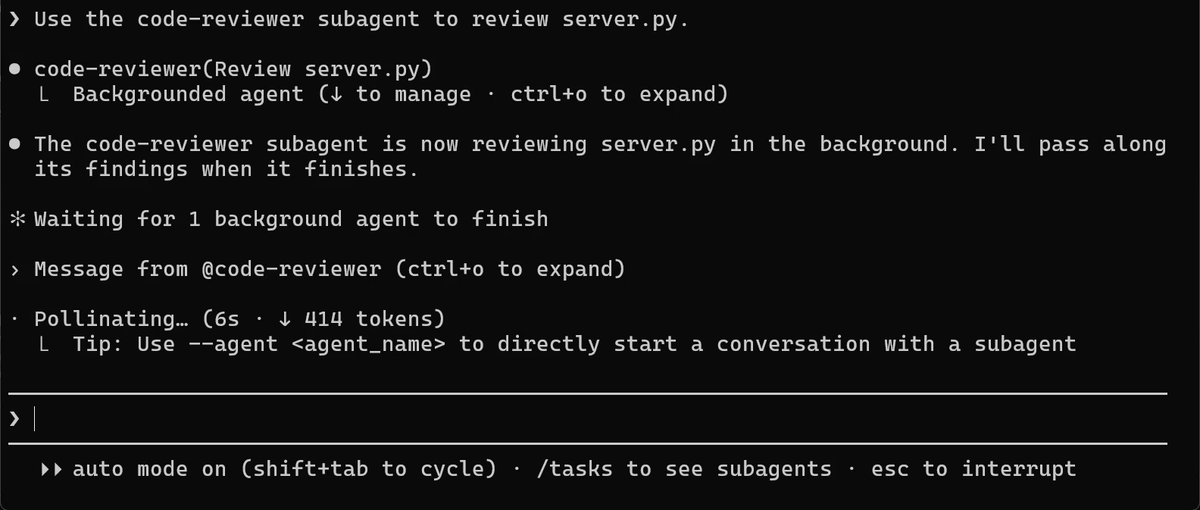
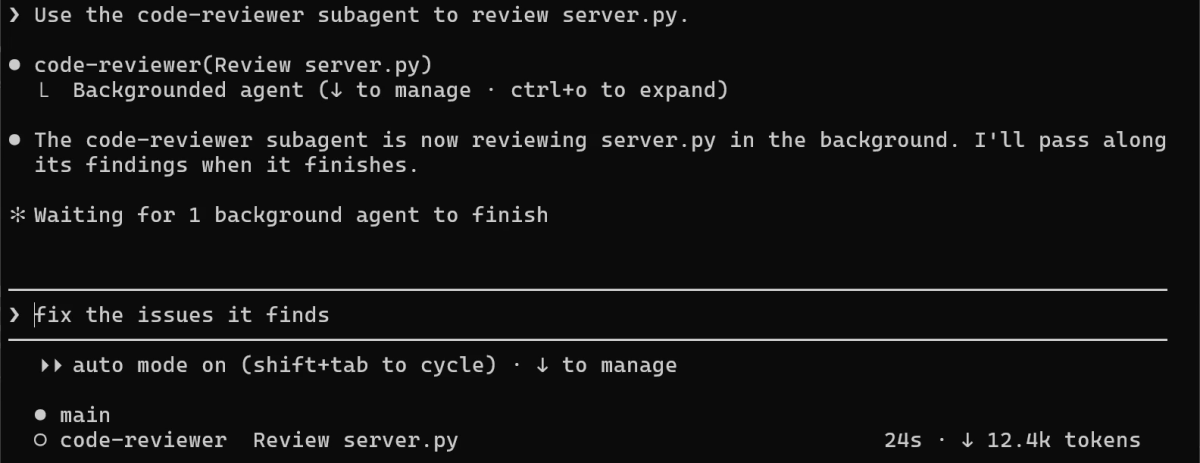
Claude Code chapter 9: episode 9 video, resume picture, review screenshot

diff --git a/series/claude-code/chapter9.html b/series/claude-code/chapter9.html
@@ -48,30 +48,39 @@
   </nav>
 
   <main>
+  <section id="video">
+    <div class="video"><iframe src="https://www.youtube-nocookie.com/embed/2tsK3JxVsaM?rel=0" title="Episode 9 · How do I get a second pair of eyes in Claude Code?"
+      allow="accelerometer; encrypted-media; gyroscope; picture-in-picture; web-share" allowfullscreen loading="lazy"></iframe></div>
+    <p class="video-cap">Prefer to watch? This chapter goes with Episode 9 (5:08). <a href="https://www.youtube.com/watch?v=2tsK3JxVsaM" rel="noopener">Open it on YouTube</a>.</p>
+  </section>
+
   <section id="wall" data-rail="The wall">
     <div class="prereq">
-      <div class="pq"><b>Goes with Episode 9</b>"How do I get a second pair of eyes?". The video is being made. This page teaches the same steps, at your own pace.</div><div class="pq"><b>In a hurry?</b><a href="#quickref">Jump to the quick reference</a>: every command and key in this chapter, what it does, and when to use it.</div><div class="pq"><b>Every prompt, ready to copy</b><a href="prompts.html#ch9">This chapter's prompts and commands</a>, each with a Copy button. Type them yourself first; copy if you are stuck or behind.</div>
+      <div class="pq"><b>Goes with Episode 9</b><a href="https://www.youtube.com/watch?v=2tsK3JxVsaM" target="_blank" rel="noopener">"How do I get a second pair of eyes in Claude Code?"</a>. Watch it just above, or read this page at your own pace. It teaches the same steps.</div><div class="pq"><b>In a hurry?</b><a href="#quickref">Jump to the quick reference</a>: every command and key in this chapter, what it does, and when to use it.</div><div class="pq"><b>Every prompt, ready to copy</b><a href="prompts.html#ch9">This chapter's prompts and commands</a>, each with a Copy button. Type them yourself first; copy if you are stuck or behind.</div>
       <div class="pq"><b>Where you are</b>DevPulse with tests, a standup skill and standup.ps1, from chapters 1 to 8. Start <code>claude</code> in your project folder.</div>
     </div>
     <div class="prose">
       <h2>Who checks the code?</h2>
       <p>DevPulse has a server, a page, a streak and a standup now. Claude wrote most of it, and when we asked for checks, the same Claude did those too.</p>
-      <p>At work, nobody reviews their own pull request. Someone else reads it, with fresh eyes.</p>
+      <p>Say you wrote your resume and read it three times before sending it. Then a friend reads it once, and circles a spelling mistake in the very first line. You kept reading what you meant to write; your friend reads only what is on the page. And your friend does not rewrite it: they mark the mistake, and you fix it.</p>
     </div>
+    <figure class="cc-shot"><img src="img/chapter9/resume.svg" alt="A hand-drawn resume page with the heading Sofware Developer. A friend with a pen has circled Sofware in mustard and written sp? under it." loading="lazy">
+      <figcaption>Fresh eyes read what is on the page. The friend marks the mistake; you fix it.</figcaption></figure>
     <div class="cc-wall">
       <div class="lbl">The question for this chapter</div>
-      <p>Can Claude Code give you a second pair of eyes?</p>
+      <p>How do you get a second pair of eyes on your code, from someone who did not write it?</p>
     </div>
   </section>
 
   <section id="explore" data-rail="A helper: Explore">
     <div class="prose">
       <h2>A helper with its own context</h2>
-      <p>A <b>subagent</b> is a helper Claude starts for one job. It works in its own context and sends back only the answer, so your session stays short. One is built in: <b>Explore</b>, which only reads.</p>
+      <p>Claude Code can give you a friend like that. Claude can start a helper for one job, and that helper works in its own context. It starts fresh, without your long conversation, and sends back only its answer, so your own session stays short.</p>
+      <p>That helper is what Claude Code calls a <b>subagent</b>. One is built in: <b>Explore</b>, which only reads.</p>
     </div>
     <div class="yousee"><b>Type this into Claude Code</b>Use the Explore subagent to find where the streak is calculated and what calls it.</div>
     <figure class="cc-shot"><img src="img/chapter9/explore.png" alt="The Explore result: index.html loads /streak.js and calls computeStreak and bestStreak in renderWeek; server.py only serves the file; streak.test.js covers both functions. Agent Find streak calculation and callers finished in 19s." loading="lazy">
-      <figcaption>19 seconds: the file, the lines, and every caller. It also says what it did not search. The grey <i>Run the streak tests</i> is only a suggestion.</figcaption></figure>
+      <figcaption>19 seconds: everything that uses the streak code, with line numbers, and what it did not search. The grey <i>Run the streak tests</i> is only a suggestion.</figcaption></figure>
   </section>
 
   <section id="create" data-rail="Make your own reviewer">
@@ -96,8 +105,8 @@
       <p>Call the reviewer by its name, and give it one file.</p>
     </div>
     <div class="yousee"><b>Type this into Claude Code</b>Use the code-reviewer subagent to review server.py.</div>
-    <figure class="cc-shot"><img src="img/chapter9/review.png" alt="code-reviewer(Review server.py): Backgrounded agent. The code-reviewer subagent is now reviewing server.py in the background. Waiting for 1 background agent to finish." loading="lazy">
-      <figcaption>It runs in the background, so you can keep typing while it reads.</figcaption></figure>
+    <figure class="cc-shot"><img src="img/chapter9/review.png" alt="code-reviewer(Review server.py): Backgrounded agent. The code-reviewer subagent is now reviewing server.py in the background. Waiting for 1 background agent to finish. At the bottom: main, and code-reviewer Review server.py, 24s, 12.4k tokens." loading="lazy">
+      <figcaption>It runs in the background: the bottom line shows your main session, and the subagent beside it, with its own token count. The grey <i>fix the issues it finds</i> is only a suggestion.</figcaption></figure>
     <figure class="cc-shot"><img src="img/chapter9/findings.png" alt="The end of the review: finding 6, file reads not fully guarded; 7, readability; 8, a failed send on a broken pipe. No problems found with path traversal, the atomic write, locking or ID matching. It did not review the front end. Findings 1-4 matter most." loading="lazy">
       <figcaption>The end of 8 findings, in 27 seconds. Note what it checked and found fine, and what it did not check: the front end. The grey <i>fix findings 1-4</i> is only a suggestion.</figcaption></figure>
     <div class="prose">
@@ -108,20 +117,21 @@
   <section id="fix" data-rail="Fix the first one">
     <div class="prose">
       <h2>Fix the first one, with a test</h2>
+      <p>Our server has had its own tests since chapter 2, in <code>test_server.py</code>. Ask Claude to fix finding 1, add one more test, and run them all.</p>
     </div>
     <div class="yousee"><b>Type this into Claude Code</b>Fix finding 1 and add a test for it, then run the tests.</div>
     <figure class="cc-shot"><img src="img/chapter9/fixed.png" alt="Finding 1 is fixed, and all 9 tests pass, including the new one. Fix: _read_json now returns 400 Bad Content-Length when the length is negative. Test: test_negative_content_length. I didn't run it against the unfixed code, so I haven't seen it fail without the fix." loading="lazy">
-      <figcaption>A negative length used to slip past the size check. Now it gets a 400, and all 9 tests pass. The grey <i>commit this</i> is only a suggestion.</figcaption></figure>
+      <figcaption>The new test sends a length of -1 and expects the server to refuse it. Before, a negative length got past the size cap; now it gets a 400, and all 9 server tests pass, the new one included. The grey <i>commit this</i> is only a suggestion.</figcaption></figure>
     <div class="prose">
-      <p>Read the honest line: it never saw the new test fail. A test you never saw fail may not test anything. We committed the fix with <code>/commit-commands:commit</code>.</p>
+      <p>Read the honest line: it never saw the new test fail. A test you never saw fail may not test anything. We committed the fix with <code>/commit-commands:commit</code>. The commit left our new <code>.claude/agents/code-reviewer.md</code> out; we committed it ourselves, so anyone who clones the project gets the reviewer too.</p>
     </div>
   </section>
 
   <section id="cost" data-rail="What it costs">
     <div class="prose">
       <h2>What a subagent costs</h2>
-      <p>A subagent has its own context, so it uses its own tokens. A review of one file is cheap, but a review of the whole project is not.</p>
-      <p>And our reviewer only reads code. It cannot see the app running in the browser. In chapter 10, Claude sees the app.</p>
+      <p>A subagent has its own context, so it uses its own tokens. In our run, Explore used 26.0k tokens for one search, and the reviewer 12.6k for one file: the counts on the bottom line while each one works. A review of one file is cheap, but a review of the whole project is not.</p>
+      <p>Our reviewer reads every line of DevPulse, but it has never seen DevPulse on a screen. In the next chapter, Claude opens it in a real browser, at the size of a phone. Claude Code does that through what it calls an MCP server.</p>
     </div>
   </section>
 
@@ -135,14 +145,15 @@
       <div class="lbl">Your homework</div>
       <h3>Fix finding 2, and see the test fail first</h3>
       <p style="font-size:var(--fs-cap);color:var(--slate)"><b>The goal:</b> act on the next finding, and trust its test.</p>
-      <p style="font-size:var(--fs-cap);color:var(--slate);margin-top:8px"><b>The steps:</b> ask Claude: <i>Write a test for finding 2 and run it before you fix anything. Then fix it and run the tests again.</i></p>
+      <p style="font-size:var(--fs-cap);color:var(--slate);margin-top:8px"><b>First:</b> in your own project, make a read-only reviewer and run it on one file.</p>
+      <p style="font-size:var(--fs-cap);color:var(--slate);margin-top:8px"><b>Then:</b> for its second finding, ask Claude: <i>Write a test for finding 2 and run it before you fix anything. Then fix it and run the tests again.</i></p>
       <p style="font-size:var(--fs-cap);color:var(--slate);margin-top:8px"><b>Guess first:</b> will the new test fail before the fix?</p>
       <p style="font-size:var(--fs-cap);color:var(--slate);margin-top:10px"><i>One question for you: what other helper would you give its own subagent?</i></p>
     </div>
   </section>
 
-  <section class="lwa-refs" id="refs"><div class="prose"><h2>References</h2><p>Where each command and file on this page comes from. Every screenshot is from our own recording on 29 Oct 2026, Claude Code 2.1.312.</p></div><ol><li><b>Anthropic</b> · <i>Subagents in Claude Code</i> <span class="why">What a subagent is, the built-in Explore agent, project subagents in .claude/agents, and their tools and model.</span> <a href="https://code.claude.com/docs/en/sub-agents" rel="noopener">https://code.claude.com/docs/en/sub-agents</a></li><li><b>My own recording</b> · <i>29 Oct 2026, Windows 11</i> <span class="why">Explore answered in 19 seconds; the review took 27 seconds and found 8 issues; the fix passed all 9 tests.</span></li></ol></section>
-  <section class="keep" aria-label="Follow along"><p class="follow">New chapters and episodes come out every week. Follow along on <a href="https://www.youtube.com/@learn-ai-by-building" rel="noopener">YouTube</a> or the <a href="https://whatsapp.com/channel/0029VbBmUYHADTOID6uURl2U" rel="noopener">WhatsApp channel</a>.</p></section>
+  <section class="lwa-refs" id="refs"><div class="prose"><h2>References</h2><p>Where each command and file on this page comes from. Every screenshot is from our own recording on 29 Oct 2026, Claude Code 2.1.312.</p></div><ol><li><b>Anthropic</b> · <i>Subagents in Claude Code</i> <span class="why">What a subagent is, the built-in Explore agent, project subagents in .claude/agents, and their tools and model.</span> <a href="https://code.claude.com/docs/en/sub-agents" rel="noopener">https://code.claude.com/docs/en/sub-agents</a></li><li><b>My own recording</b> · <i>29 Oct 2026, Windows 11</i> <span class="why">Explore answered in 19 seconds; the review took 27 seconds and found 8 issues; the fix passed all 9 server tests, the new one included.</span></li></ol></section>
+  <section class="keep" aria-label="Follow along"><p class="follow">New chapters and episodes come out every week. Follow along on <a href="https://www.youtube.com/@learn-ai-by-building" rel="noopener">YouTube</a> or the <a href="https://whatsapp.com/channel/0029VbBmUYHADTOID6uURl2U" rel="noopener">WhatsApp channel</a>. Questions? Ask under the video on YouTube; I read every comment.</p></section>
   <div class="lwa-chapnav"><a href="chapter8.html"><span class="k">← Previous</span><span class="t">Chapter 8 · A standup that runs on its own</span></a><button type="button" class="lwa-complete" data-lwa-complete><span class="k">Progress</span><span class="t">Mark this chapter complete</span></button><a href="chapter10.html"><span class="k">Next →</span><span class="t">Chapter 10 · Claude sees the app</span></a></div>
   </main>
 </div>

diff --git a/series/claude-code/index.html b/series/claude-code/index.html
@@ -76,7 +76,7 @@
       <div class="p-card"><div class="ph"><span class="pn">Chapter 8</span><span class="pt"><a href="chapter8.html">A standup that runs on its own</a></span></div>
         <p class="pd">claude -p without a chat, --allowedTools, and a standup script that runs by itself. <a href="https://www.youtube.com/watch?v=Xeo2ei779sM" rel="noopener">Watch Episode 8 (4:05)</a></p></div>
       <div class="p-card"><div class="ph"><span class="pn">Chapter 9</span><span class="pt"><a href="chapter9.html">A code reviewer of our own</a></span></div>
-        <p class="pd">Subagents: Explore, then a code-reviewer of our own, and a fix with a test.</p></div>
+        <p class="pd">Subagents: Explore, then a code-reviewer of our own, and a fix with a test. <a href="https://www.youtube.com/watch?v=2tsK3JxVsaM" rel="noopener">Watch Episode 9 (5:08)</a></p></div>
       <div class="p-card"><div class="ph"><span class="pn">Chapter 10</span><span class="pt"><a href="chapter10.html">Claude sees the app</a></span></div>
         <p class="pd">MCP: Playwright lets Claude see the page at phone width; server scopes.</p></div>
       <div class="p-card"><div class="ph"><span class="pn">Chapter 11</span><span class="pt"><a href="chapter11.html">DevPulse tools for Claude</a></span></div>
